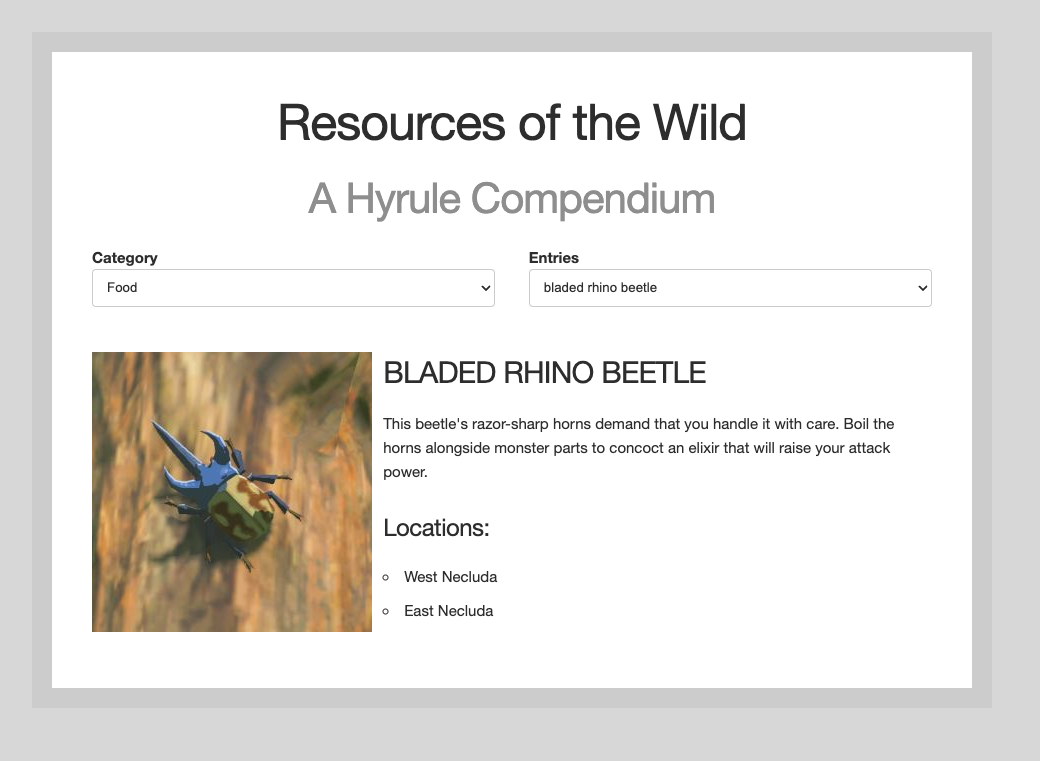
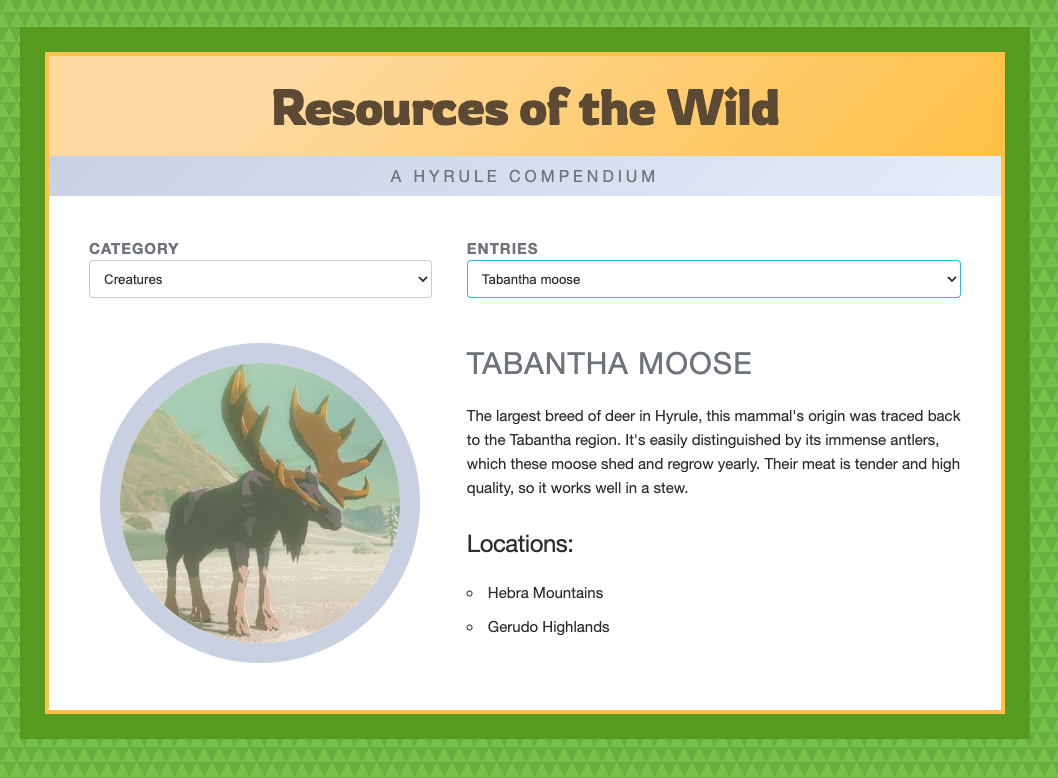
More styling improvements; empty placeholders; theming; new example img

diff --git a/src/style.css b/src/style.css
@@ -1,28 +1,85 @@
+:root {
+  --page-background: rgba(92, 176, 49, 0.876);
+  --page-accent: rgba(173, 243, 107, 0.271);
+}
+
 * {
   box-sizing: border-box;
   color: #333;
+
 }
 *::before, *::after {
   box-sizing: inherit;
 }
 
 body {
-  background-color: gainsboro;
   margin: 0;
   padding: 0;
+  background-color: gainsboro;
+  background:
+  linear-gradient(115deg, transparent 75%, var(--page-accent) 75%) 0 0,
+  linear-gradient(245deg, transparent 75%, var(--page-accent) 75%) 0 0,
+  linear-gradient(115deg, transparent 75%, var(--page-accent) 75%) 7px -15px,
+  linear-gradient(245deg, transparent 75%, var(--page-accent) 75%) 7px -15px,
+  var(--page-background);
+  background-size: 15px 30px;
 }
 
 .container {
-  margin-top: 4rem;
+  margin-top: 5.5rem;
   background-color: white;
+  border: 4px solid #fec84e;
+  outline: 2.5rem solid rgb(97, 165, 33);
+}
+
+.search-params {
   padding: 4rem;
-  border: 2rem solid rgba(0,0,0, 0.2)
+}
+
+.search {
+  min-height: 280px;
 }
 
 .page-title {
-  text-align: center;
+  text-align: center;    
+  font-family: 'Rowdies';
+  color: #68543b;
+  padding: 2rem 0;
+  margin: 0;
+  background-color: #fec84e;
+  background-image: linear-gradient(315deg, #fec84e 0%, #ffdea8 74%);
+  
 }
 .page-subtitle {
   text-align: center;
-  color: #999;
+  color: #797f85;
+  background: #dedede;
+  margin: 0;
+  font-size: 1.6rem;
+  padding: 1rem;
+  text-transform: uppercase;
+  letter-spacing: 0.4rem;
+  background-color: #e7eff9;
+  background-image: linear-gradient(315deg, #e7eff9 0%, #cfd6e6 100%);
+}
+.image-container {
+  text-align: center;
+}
+.image-container img {
+  min-width: 280px;
+  min-height: 280px;
+  border-radius: 280px;
+  border: 20px solid #cfd6e6;
+}
+
+label, h4 {
+  color: #797f85;
+  letter-spacing: 0.1rem;
+  text-transform: uppercase;
+}
+
+.empty-entry {
+  padding-top: 125px;
+  text-align: center;
+  color: #ccc;
 }

diff --git a/src/Entry.jsx b/src/Entry.jsx
@@ -13,21 +13,30 @@ const Entry = (props) => {
 
   return (
     <div className="entry row" id={id}>
-        <div className="image-container four columns">
+        <div className="image-container five columns">
             <img src={hero} alt={title} />
         </div>
-        <div className="info eight columns">
-            <h4>{title}</h4>
-            <p>{description}</p>
-            <h5>Locations:</h5>
-            {locations && locations.length ? (
-                <ul>
-                    {locations.map((lo) => (
-                        <li key={lo}>{lo}</li>
-                    ))}
-                </ul>
-            ) : ('')}
-        </div>
+        {name ? (
+            <div className="info-container seven columns">
+                <h4>{title}</h4>
+                <p>{description}</p>
+                <h5>Locations:</h5>
+                {locations && locations.length ? (
+                    <ul>
+                        {locations.map((lo) => (
+                            <li key={lo}>{lo}</li>
+                        ))}
+                    </ul>
+                ) : (
+                    <ul>
+                        <li>No locations found</li>
+                    </ul>
+                )}
+            </div>) :
+            (
+                <h5 className="empty-entry">Please select a category/entry</h5>
+            )
+        }
       </div>
   );
 };

diff --git a/src/SearchParams.jsx b/src/SearchParams.jsx
@@ -36,7 +36,7 @@ const SearchParams = () => {
           requestEntries();
         }}
       >
-        <label htmlFor="category" className="six columns">
+        <label htmlFor="category" className="five columns">
           Category
           <select
             className="u-full-width"
@@ -57,7 +57,7 @@ const SearchParams = () => {
             ))}
           </select>
         </label>
-        <label htmlFor="entry" className="six columns">
+        <label htmlFor="entry" className="seven columns">
             Entries
             <select
               className="u-full-width"
@@ -72,7 +72,7 @@ const SearchParams = () => {
               <option />
               {entryList.map((ent) => (
                 <option key={ent.id} value={JSON.stringify(ent)}>
-                  {ent.name}
+                  {ent.name[0].toUpperCase() + ent.name.substring(1, ent.name.length) }
                 </option>
               ))}
             </select>

diff --git a/src/index.html b/src/index.html
@@ -6,6 +6,9 @@
     <meta http-equiv="Content-Security-Policy" content="default-src * self blob: data: gap:; style-src * self 'unsafe-inline' blob: data: gap:; script-src * 'self' 'unsafe-eval' 'unsafe-inline' blob: data: gap:; object-src * 'self' blob: data: gap:; img-src * self 'unsafe-inline' blob: data: gap:; connect-src self * 'unsafe-inline' blob: data: gap:; frame-src * self blob: data: gap:;">
     <link rel="stylesheet" href="https://cdnjs.cloudflare.com/ajax/libs/skeleton/2.0.4/skeleton.css" integrity="sha512-5fsy+3xG8N/1PV5MIJz9ZsWpkltijBI48gBzQ/Z2eVATePGHOkMIn+xTDHIfTZFVb9GMpflF2wOWItqxAP2oLQ==" crossorigin="anonymous" referrerpolicy="no-referrer" />
     <link rel="stylesheet" href="./style.css" />
+    <style>
+      @import url('https://fonts.googleapis.com/css2?family=Rowdies&display=swap');
+    </style>
     <title>Resources of the Wild - A Hyrule Compendium</title>
   </head>
 
